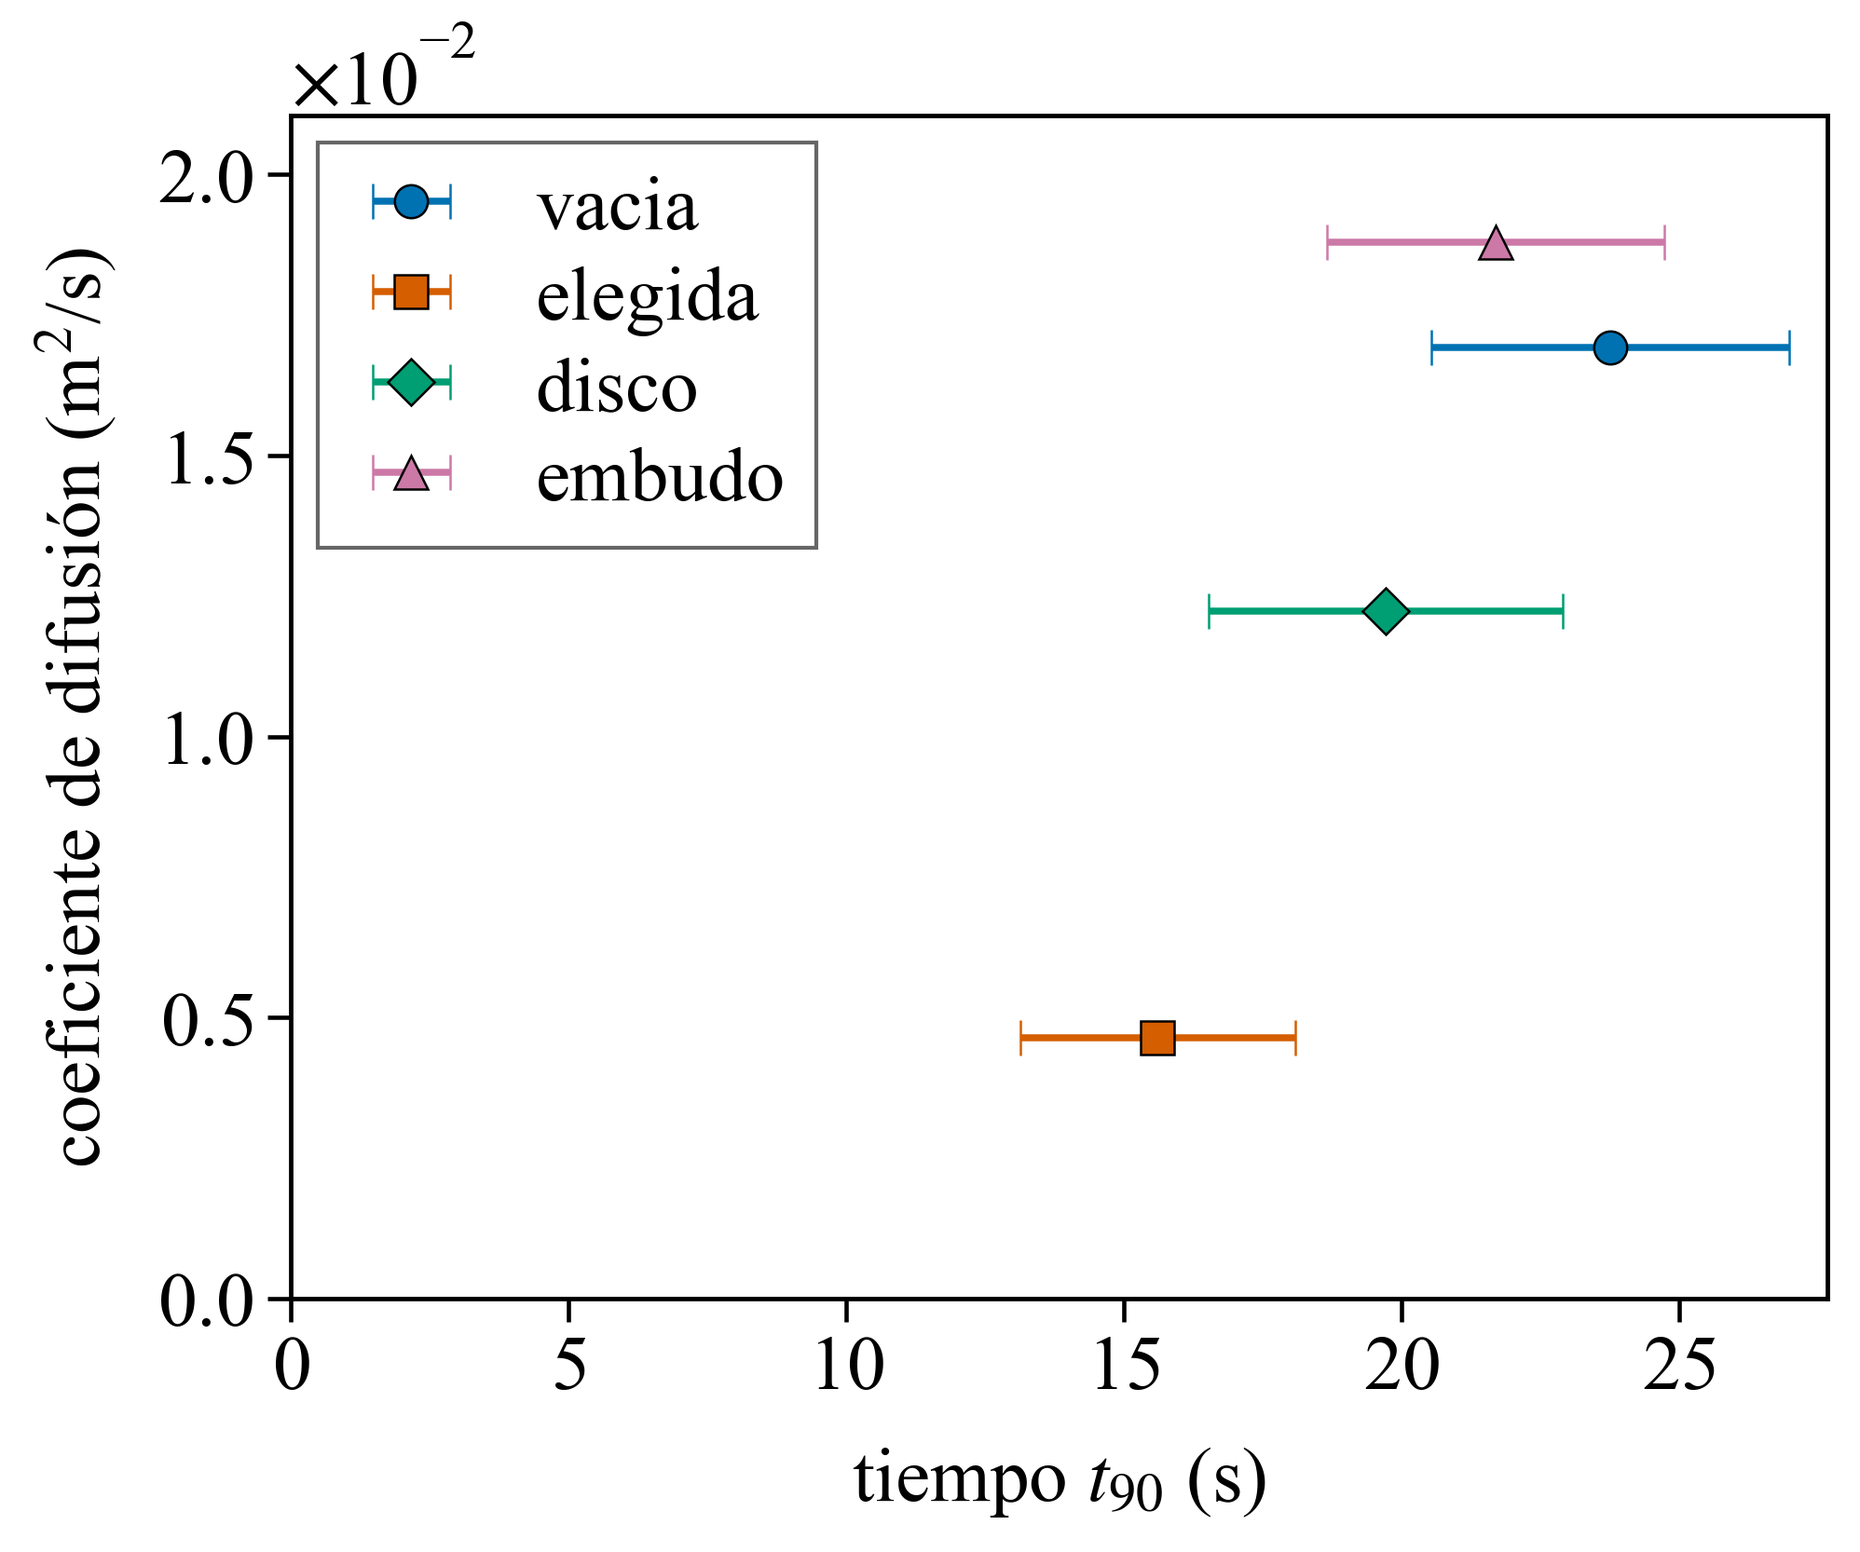
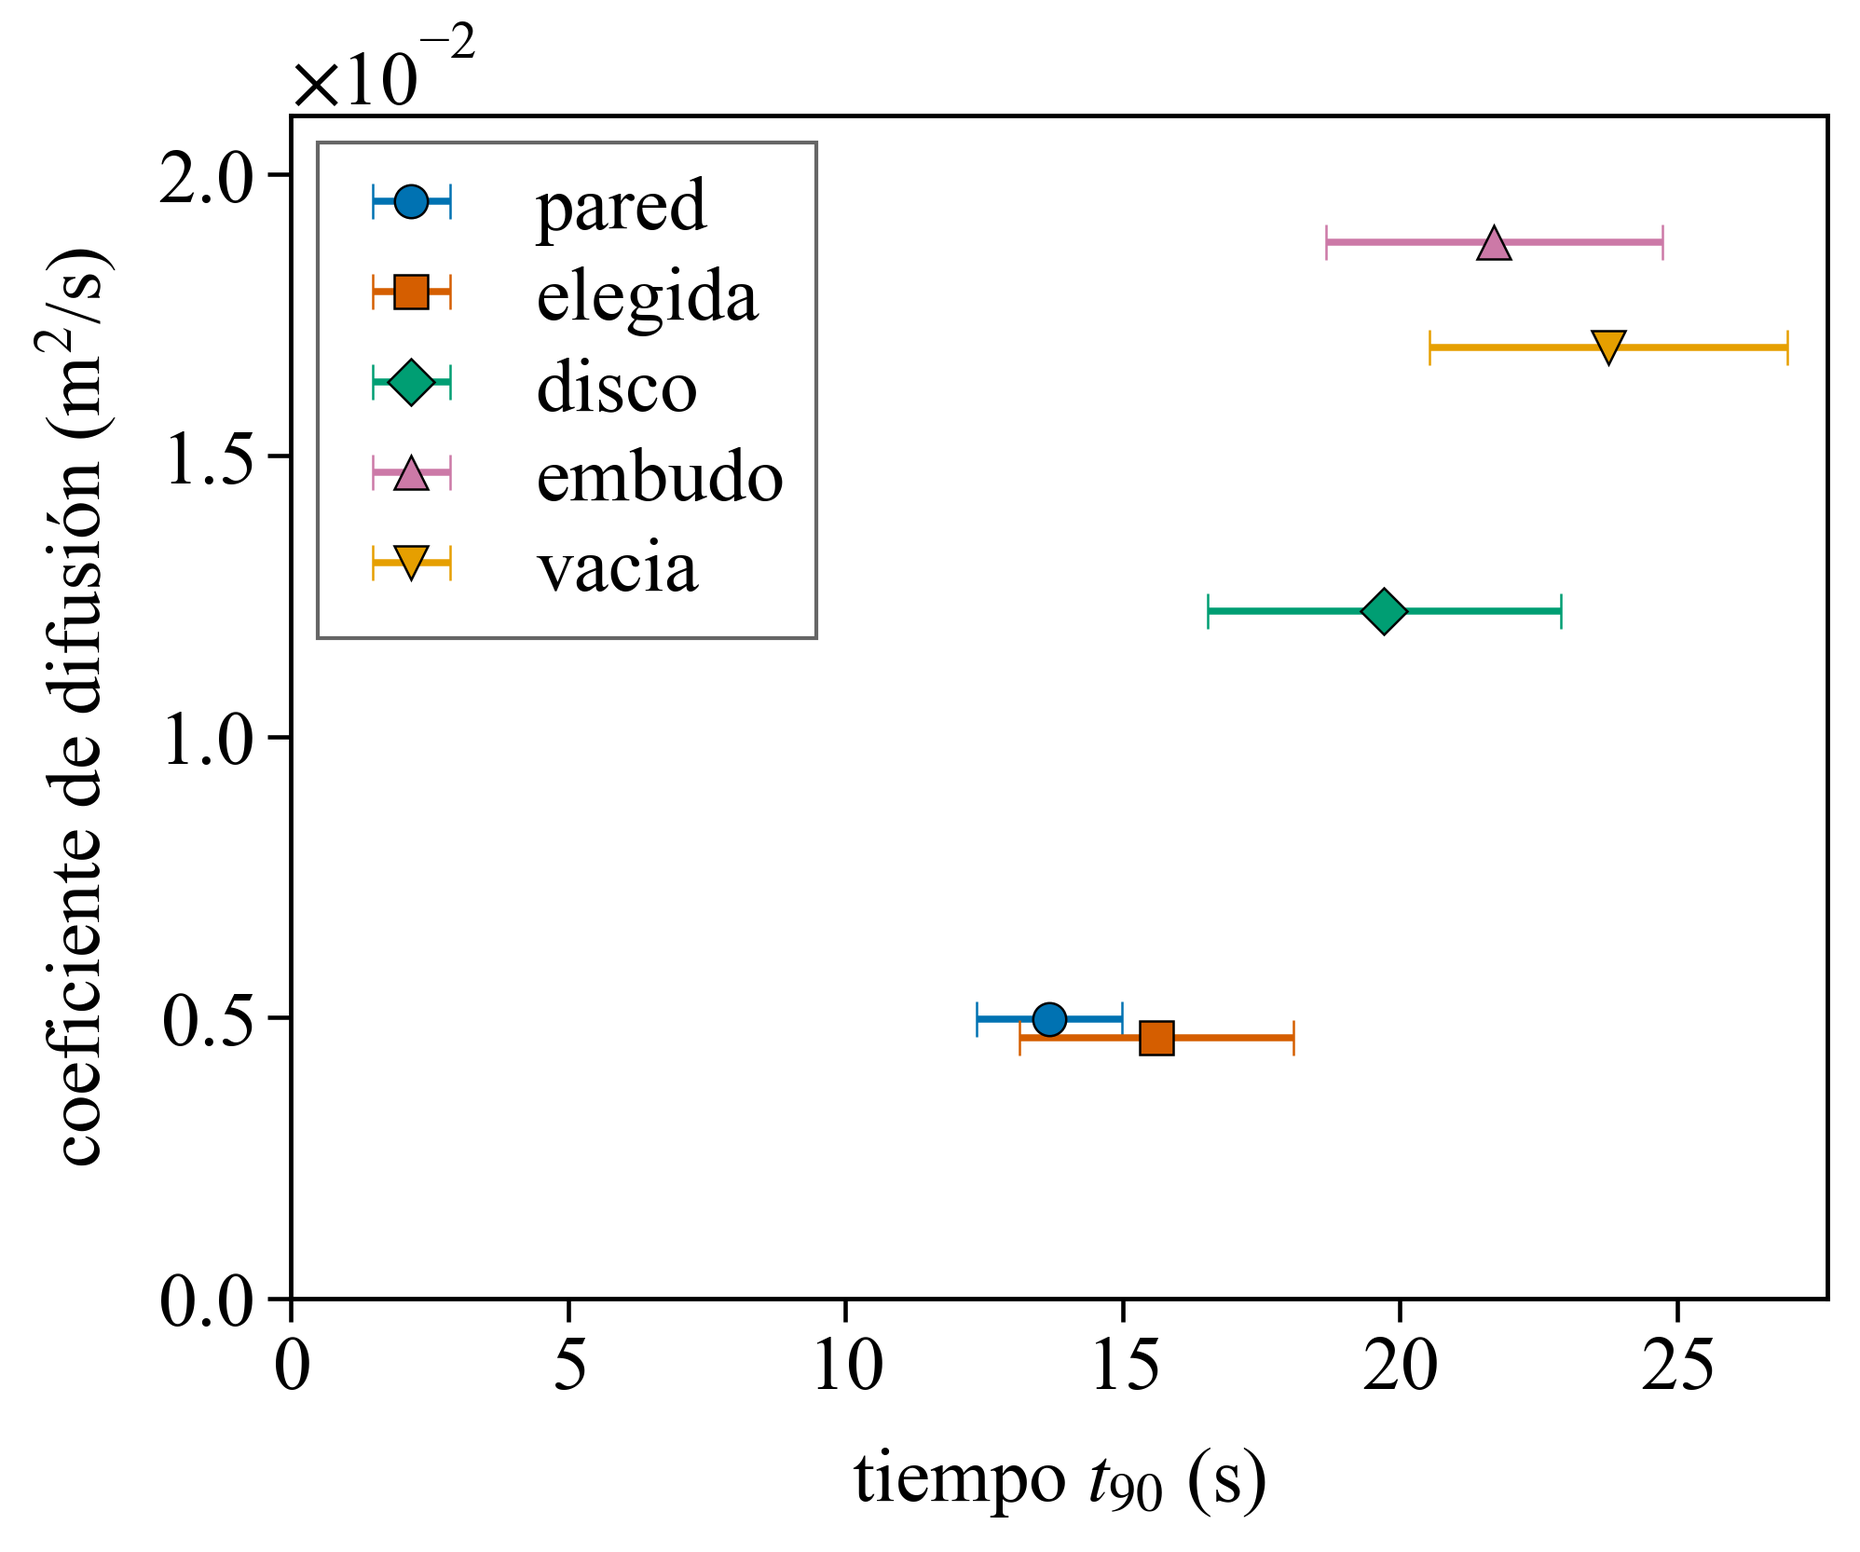
New wall

diff --git a/python/pared.py b/python/pared.py
@@ -7,6 +7,7 @@ pegadas con ese mismo hueco.
 
     python python/pared.py --plan
     python python/pared.py --outdir data/runs/1.2/pared
+    python python/pared.py --radius 0.0175 --columns 19 --centers 0.60 --plan
 """
 
 from __future__ import annotations
@@ -33,24 +34,24 @@ COLUMNS = tuple(range(1, 11))
 CENTERS = (0.40, 0.50, 0.60, 0.70, 0.80)
 
 
-def column_ys() -> tuple[list[float], float] | None:
-    span = W - 2.0 * RADIUS
-    max_steps = int(span / (2.0 * RADIUS))
-    opening = 2.0 * RADIUS + 2.0 * R_PARTICLE
+def column_ys(radius: float) -> tuple[list[float], float] | None:
+    span = W - 2.0 * radius
+    max_steps = int(span / (2.0 * radius))
+    opening = 2.0 * radius + 2.0 * R_PARTICLE
     min_steps = int(span / opening) + 1
     if max_steps < 1 or min_steps > max_steps:
         return None
     pitch = span / max_steps
-    gap = pitch - 2.0 * RADIUS
+    gap = pitch - 2.0 * radius
     if gap < 0.0 or gap >= 2.0 * R_PARTICLE:
         return None
-    ys = [RADIUS + i * pitch for i in range(max_steps)]
-    ys.append(W - RADIUS)
+    ys = [radius + i * pitch for i in range(max_steps)]
+    ys.append(W - radius)
     return ys, pitch
 
 
-def wall(columns: int, xc: float) -> list[tuple[float, float, float]] | None:
-    laid = column_ys()
+def wall(columns: int, xc: float, radius: float = RADIUS) -> list[tuple[float, float, float]] | None:
+    laid = column_ys(radius)
     if laid is None or columns < 1:
         return None
     ys, pitch = laid
@@ -58,9 +59,9 @@ def wall(columns: int, xc: float) -> list[tuple[float, float, float]] | None:
     discs = []
     for col in range(columns):
         x = xc + offset0 + col * pitch
-        if x < RADIUS or x > L - RADIUS:
+        if x < radius or x > L - radius:
             return None
-        discs.extend((x, y, RADIUS) for y in ys)
+        discs.extend((x, y, radius) for y in ys)
     return discs
 
 
@@ -95,26 +96,30 @@ def main() -> None:
     parser.add_argument("--jobs", type=int, default=8)
     parser.add_argument("--columns", type=int, nargs="+", default=list(COLUMNS))
     parser.add_argument("--centers", type=float, nargs="+", default=list(CENTERS))
+    parser.add_argument("--radius", type=float, nargs="+", default=[RADIUS])
     args = parser.parse_args()
 
     rows = []
-    laid = column_ys()
-    if laid is None:
-        raise SystemExit("el radio fijo no cierra el alto")
-    _ys, pitch = laid
-    gap = pitch - 2.0 * RADIUS
-    for columns in args.columns:
-        ancho = (columns - 1) * pitch + 2.0 * RADIUS
-        for xc in args.centers:
-            discs = wall(columns, xc)
-            if discs is None:
-                print(f"{columns} columnas  x {xc:.2f}: no entra en la mesa")
-                continue
-            print(
-                f"{columns} columnas  ancho {ancho:.3f} m  x {xc:.2f} m  "
-                f"K={len(discs)}  hueco {gap * 1000:.1f} mm"
-            )
-            rows.append((columns, ancho, xc, discs))
+    for radius in args.radius:
+        if radius < R_PARTICLE:
+            raise SystemExit(f"radio {radius} m es menor que r")
+        laid = column_ys(radius)
+        if laid is None:
+            raise SystemExit(f"radio {radius} m no cierra el alto")
+        _ys, pitch = laid
+        gap = pitch - 2.0 * radius
+        for columns in args.columns:
+            ancho = (columns - 1) * pitch + 2.0 * radius
+            for xc in args.centers:
+                discs = wall(columns, xc, radius)
+                if discs is None:
+                    print(f"R {radius:.4f}  {columns} columnas  x {xc:.2f}: no entra en la mesa")
+                    continue
+                print(
+                    f"R {radius:.4f} m  {columns} columnas  ancho {ancho:.3f} m  x {xc:.2f} m  "
+                    f"K={len(discs)}  hueco {gap * 1000:.1f} mm"
+                )
+                rows.append((radius, columns, ancho, xc, discs))
     if args.plan:
         return
     if args.outdir is None:
@@ -127,11 +132,11 @@ def main() -> None:
     out = args.outdir.resolve()
     out.mkdir(parents=True, exist_ok=True)
     table = out / "pared_t90.txt"
-    lines = ["columnas ancho x K t90_mean t90_std"]
-    for columns, ancho, xc, discs in rows:
-        config = out / f"c{columns}_x{xc:.2f}.txt"
+    lines = ["radio columnas ancho x K t90_mean t90_std"]
+    for radius, columns, ancho, xc, discs in rows:
+        config = out / f"r{radius:.4f}_c{columns}_x{xc:.2f}.txt"
         mean, std, k = evaluate(exe, discs, seeds, args.jobs, config)
-        lines.append(f"{columns} {ancho:.6g} {xc:.2f} {k} {mean:.6g} {std:.6g}")
+        lines.append(f"{radius:.4f} {columns} {ancho:.6g} {xc:.2f} {k} {mean:.6g} {std:.6g}")
         table.write_text("\n".join(lines) + "\n", encoding="utf-8")
         print(f"  <t90> = {mean:.4g} ± {std:.4g} s")
     print(f"se escribió {table}")

diff --git a/python/plotters/plot_pared_radio.py b/python/plotters/plot_pared_radio.py
@@ -1,0 +1,43 @@
+"""Pared de radio mínimo: <t90> contra la cantidad de columnas.
+
+    python python/plotters/plot_pared_radio.py
+"""
+
+import sys
+from pathlib import Path
+
+sys.path.insert(0, str(Path(__file__).resolve().parent.parent / "lib"))
+
+from plot_style import MARKERS, SERIES, VERMILLION, new_figure, place_legend_below, save_figure, style_axes
+from tables import load_table
+
+ROOT = Path(__file__).resolve().parents[2]
+TABLE = ROOT / "docs" / "results" / "1.2" / "pared_columnas.txt"
+OUTPUT = ROOT / "docs" / "results" / "1.2" / "pared_columnas.png"
+
+
+def main() -> None:
+    rows = load_table(TABLE, ("radio", "columnas", "ancho", "x", "K", "t90_mean", "t90_std"))
+    pts = sorted(rows, key=lambda row: int(row["columnas"]))
+    fig, ax = new_figure()
+    ax.errorbar(
+        [int(row["columnas"]) for row in pts],
+        [float(row["t90_mean"]) for row in pts],
+        yerr=[float(row["t90_std"]) for row in pts],
+        color=SERIES[0],
+        marker=MARKERS[0],
+        markeredgecolor="black",
+        markeredgewidth=0.6,
+        linestyle="-",
+        label=r"$R$ = 0.0175 m",
+    )
+    ax.axhline(23.7617, color=VERMILLION, linestyle="--", label="mesa vacía")
+    ax.axhline(15.6094, color="0.25", linestyle=":", label="elegida")
+    style_axes(ax, "columnas", r"tiempo $t_{90}$ (s)")
+    ax.set_ylim(8, 28)
+    place_legend_below(ax, ncol=3)
+    save_figure(fig, OUTPUT)
+
+
+if __name__ == "__main__":
+    main()

diff --git a/docs/results/1.3/1.3_difusion.md b/docs/results/1.3/1.3_difusion.md
@@ -17,9 +17,11 @@ python python/run.py --exe build/EventDrivenSim.exe --outdir data/runs/1.3/msd/v
 python python/run.py --exe build/EventDrivenSim.exe --outdir data/runs/1.3/msd/elegida_full --obstacles configs/ga_best.txt --reps 1 --seed 401 --k 200 --tmax 100 --jobs 1 --preview none
 python python/run.py --exe build/EventDrivenSim.exe --outdir data/runs/1.3/msd/disco --obstacles configs/disco_grande.txt --reps 1 --seed 401 --k 200 --tmax 100 --jobs 1 --preview none
 python python/run.py --exe build/EventDrivenSim.exe --outdir data/runs/1.3/msd/embudo --obstacles configs/embudo.txt --reps 1 --seed 401 --k 200 --tmax 100 --jobs 1 --preview none
+python python/run.py --exe build/EventDrivenSim.exe --outdir data/runs/1.3/msd/pared_18 --obstacles data/runs/1.2/pared_rmin/r0.0175_c18_x0.60.txt --reps 1 --seed 401 --k 200 --tmax 100 --jobs 1 --preview none
 python python/run.py --exe build/EventDrivenSim.exe --outdir data/runs/1.3/t90/disco_601 --obstacles configs/disco_grande.txt --reps 12 --seed 601 --k 0 --tmax 100 --jobs 4 --preview none
 python python/run.py --exe build/EventDrivenSim.exe --outdir data/runs/1.3/t90/embudo_601 --obstacles configs/embudo.txt --reps 12 --seed 601 --k 0 --tmax 100 --jobs 4 --preview none
 python python/plotters/plot_layout.py --obstacles configs/ga_best.txt --output docs/results/1.3/elegida.png
+python python/plotters/plot_layout.py --obstacles data/runs/1.2/pared_rmin/r0.0175_c18_x0.60.txt --output docs/results/1.3/pared.png
 python python/plotters/plot_layout.py --obstacles configs/disco_grande.txt --output docs/results/1.3/disco.png
 python python/plotters/plot_layout.py --obstacles configs/embudo.txt --output docs/results/1.3/embudo.png
 python python/plotters/plot_msd.py --input docs/results/1.3/msd_vacia.txt --output docs/results/1.3/msd_vacia.png --error-output docs/results/1.3/msd_error.png --t-min 0.5 --t-max 1.5
@@ -27,24 +29,27 @@ python python/plotters/plot_d_vs_t90.py --input docs/results/1.3/d_vs_t90.txt --
 ```
 
 - **Parámetros fijos:** los del 1.2. N = 100, v0 = 1 m/s, tmax = 100 s.
-- **DCM:** una realización, semilla 401, la misma para las cuatro configuraciones. El promedio es sobre las 100 partículas, respecto de sus posiciones iniciales. El motor guarda el estado inicial, un cuadro cada 200 colisiones y cada gol.
+- **DCM:** una realización, semilla 401, la misma para las cinco configuraciones. El promedio es sobre las 100 partículas, respecto de sus posiciones iniciales. El motor guarda el estado inicial, un cuadro cada 200 colisiones y cada gol.
 - **Ajuste:** entre 0.5 s y 1.5 s. Antes de 0.5 s el desplazamiento todavía sale del régimen balístico (el tiempo entre colisiones es del orden de 0.1 s). Después de 2 s la mesa, que se cruza en alrededor de 1 s, dobla la curva y el DCM deja de crecer como 4 D t. El modelo es ⟨Δr²⟩ = b + 4 D t. Para cada D, b es el intercepto que minimiza E(D) = Σ [DCMᵢ − b − 4 D tᵢ]². D informado es esa pendiente dividida por 4.
-- **⟨t90⟩:** semillas 601 a 612, las de confirmación del 1.2. Mesa vacía y configuración elegida: esos valores. Disco grande y embudo: medidos en esas mismas semillas. Las barras son el desvío estándar muestral.
+- **⟨t90⟩:** semillas 601 a 612, las de confirmación del 1.2. Mesa vacía, configuración elegida y pared de 18 columnas: esos valores. Disco grande y embudo: medidos en esas mismas semillas. Las barras son el desvío estándar muestral.
 
 ## Datos
 
 | configuración | D (m²/s) | ⟨t90⟩ (s) | desvío (s) | llegaron a Fu = 0.9 |
 |---|---|---|---|---|
+| pared, 18 columnas | 0.00497 | 13.67 | 1.31 | 12 / 12 |
 | elegida | 0.00465 | 15.61 | 2.47 | 12 / 12 |
 | disco grande | 0.0122 | 19.72 | 3.19 | 12 / 12 |
 | embudo | 0.0188 | 21.70 | 3.04 | 12 / 12 |
 | mesa vacía | 0.0169 | 23.76 | 3.22 | 12 / 12 |
 
-D es de una sola realización, así que no tiene desvío. La elegida es el disco de R = 0.34 m centrado en (0.59 m, 0.34 m), `configs/ga_best.txt`. El disco grande es un obstáculo en (0.60 m, 0.34 m) con R = 0.22 m (`configs/disco_grande.txt`). El embudo son dos discos de R = 0.075 m en x = 0.45 m, y = 0.145 m y y = 0.535 m (`configs/embudo.txt`).
+D es de una sola realización, así que no tiene desvío. La pared es la de radio 0.0175 m, 18 columnas y centro en x = 0.60 m. La elegida es el disco de R = 0.34 m centrado en (0.59 m, 0.34 m), `configs/ga_best.txt`. El disco grande es un obstáculo en (0.60 m, 0.34 m) con R = 0.22 m (`configs/disco_grande.txt`). El embudo son dos discos de R = 0.075 m en x = 0.45 m, y = 0.145 m y y = 0.535 m (`configs/embudo.txt`).
 
 ## Figuras
 
-### Elegida, disco grande y embudo
+### Pared, elegida, disco grande y embudo
+
+![pared](pared.png)
 
 ![elegida](elegida.png)
 
@@ -52,6 +57,7 @@ D es de una sola realización, así que no tiene desvío. La elegida es el disco
 
 ![embudo](embudo.png)
 
+- La pared tiene círculos de radio 0.0175 m, 18 columnas y centro en x = 0.60 m. El hueco entre círculos es 0.8 mm, menor que el diámetro de una partícula.
 - La elegida es un disco de radio 0.34 m en (0.59 m, 0.34 m). Ocupa todo el ancho y toca las dos paredes largas.
 - El disco grande tapa la franja de los arcos y deja un pasillo contra cada pared larga.
 - El embudo deja una abertura de 0.24 m, centrada a la altura de los arcos.
@@ -73,11 +79,11 @@ D es de una sola realización, así que no tiene desvío. La elegida es el disco
 
 ![D frente a t90](d_vs_t90.png)
 
-- La elegida tiene el menor D (0.00465 m²/s) y el menor ⟨t90⟩ (15.61 s). El disco grande queda en el medio en las dos (0.0122 m²/s y 19.72 s).
+- La pared tiene el menor ⟨t90⟩ (13.67 s) y un D casi igual al de la elegida (0.00497 contra 0.00465 m²/s). La elegida sigue con el menor D. El disco grande queda en el medio en las dos (0.0122 m²/s y 19.72 s).
 - El embudo tiene más difusión que la mesa vacía (0.0188 contra 0.0169 m²/s) y un ⟨t90⟩ menor (21.70 s contra 23.76 s).
-- Entre la elegida y la mesa vacía las barras no se solapan: 8.15 s de diferencia de medias, con desvíos de 2.47 s y 3.22 s. El disco y el embudo sí se solapan con la mesa vacía.
+- Entre la elegida y la mesa vacía las barras no se solapan: 8.15 s de diferencia de medias, con desvíos de 2.47 s y 3.22 s. El disco y el embudo sí se solapan con la mesa vacía. Las de la pared y la elegida también: 13.67 + 1.31 = 14.98 s y 15.61 − 2.47 = 13.14 s.
 
 ## Notas y conclusiones
 
 - D es el de la ventana 0.5–1.5 s, semilla 401. ⟨t90⟩ es el de las semillas 601 a 612. Las 12 realizaciones de cada configuración llegan a Fu = 0.9.
-- La elegida reúne el menor D y el menor ⟨t90⟩, y el disco grande queda en el medio. El embudo no sigue esa orden: difunde más que la mesa vacía y aun así llega un poco antes. El D chico de la elegida sale de que el disco tapa el ancho entero y el desplazamiento en y se satura enseguida.
+- La pared de 18 columnas tiene el menor ⟨t90⟩ y un D casi igual al de la elegida, que sigue siendo el menor. El disco grande queda en el medio. El embudo no sigue esa orden: difunde más que la mesa vacía y aun así llega un poco antes. El D chico de la pared y de la elegida sale de que las dos tapan el ancho y el desplazamiento en y se satura enseguida.

diff --git a/docs/results/1.2/1.2_configuracion.md b/docs/results/1.2/1.2_configuracion.md
@@ -116,9 +116,25 @@ Las animaciones de esa figura, más la del círculo elegido, están en `data/run
 - Agregar columnas en el centro baja el tiempo hasta 9: 21.50 s con 1, 16.27 s con 5, 15.05 s con 6, 14.47 s con 8 y 14.21 ± 1.41 s con 9. Con 10 vuelve a 15.52 ± 2.14 s.
 - Esa mejor pared queda debajo de la mesa vacía (23.76 ± 3.22 s) y también debajo de la elegida (15.61 ± 2.47 s). Las barras de la pared de 9 columnas y de la elegida se solapan.
 
+El radio queda fijo en el mínimo de la consigna, Rk = r = 0.0175 m. El hueco es 0.8 mm. Lo que se varía es la cantidad de columnas, de 1 a 24, con centro en x = 0.60 m y las semillas 601 a 612. Con 26 columnas el generador no ubica las 100 partículas (fracción ocupada 0.69).
+
+```
+python python/pared.py --radius 0.0175 --columns 1 2 4 6 8 10 12 14 15 23 24 --centers 0.60 --outdir data/runs/1.2/pared_cols_rmin --jobs 8 --reps 12 --seed 601 --exe build/EventDrivenSim.exe
+python python/pared.py --radius 0.0175 --columns 18 19 20 21 22 --centers 0.60 --outdir data/runs/1.2/pared_rmin --jobs 8 --reps 12 --seed 601 --exe build/EventDrivenSim.exe
+python python/pared.py --radius 0.0175 --columns 16 17 --centers 0.60 --outdir data/runs/1.2/pared_rmin_lo --jobs 8 --reps 12 --seed 601 --exe build/EventDrivenSim.exe
+python python/plotters/plot_layout.py --obstacles data/runs/1.2/pared_rmin/r0.0175_c18_x0.60.txt --output docs/results/1.2/pared_18.png
+```
+
+![pared de 18 columnas](pared_18.png)
+
+![columnas de la pared](pared_columnas.png)
+
+- El mínimo es 13.67 ± 1.31 s, con 18 columnas (ancho 0.644 m). A los lados: 14.79 ± 1.62 s con 17 y 13.91 ± 2.01 s con 19. Con 1 columna da 21.49 ± 2.89 s y con 24 vuelve a 18.61 ± 2.27 s. La animación está en `data/runs/1.2/anim/pared_18.gif` (semilla 601, t90 = 12.01 s).
+- 13.67 + 1.31 = 14.98 s y 15.61 − 2.47 = 13.14 s: las barras con la elegida se siguen solapando.
+
 ## Notas y conclusiones
 
 - La configuración elegida tiene ⟨t90⟩ = 15.61 ± 2.47 s, frente a 23.76 ± 3.22 s de la mesa vacía, en 12 realizaciones que no participaron de la búsqueda. Las 12 llegan a Fu = 0.9.
 - En la búsqueda el mejor valor sigue bajando hasta la generación 20. El disco grande sobre el eje longitudinal le gana a los layouts de dos y tres discos que fueron mejores en generaciones intermedias.
 - Las barras de la confirmación no se solapan: 15.61 + 2.47 = 18.08 s y 23.76 − 3.22 = 20.54 s.
-- La pared de círculos, en las mismas semillas 601 a 612, tiene su mínimo en 14.21 ± 1.41 s, con 9 columnas (ancho 0.68 m) y centro en x = 0.60 m. La media queda debajo de la elegida, y las barras se solapan.
+- La pared de círculos de radio 0.035 m, en las mismas semillas 601 a 612, tiene su mínimo en 14.21 ± 1.41 s, con 9 columnas (ancho 0.68 m) y centro en x = 0.60 m. Con el radio mínimo de la consigna (0.0175 m) baja a 13.67 ± 1.31 s, con 18 columnas y ancho 0.644 m. En ambos casos la media queda debajo de la elegida y las barras se solapan.
